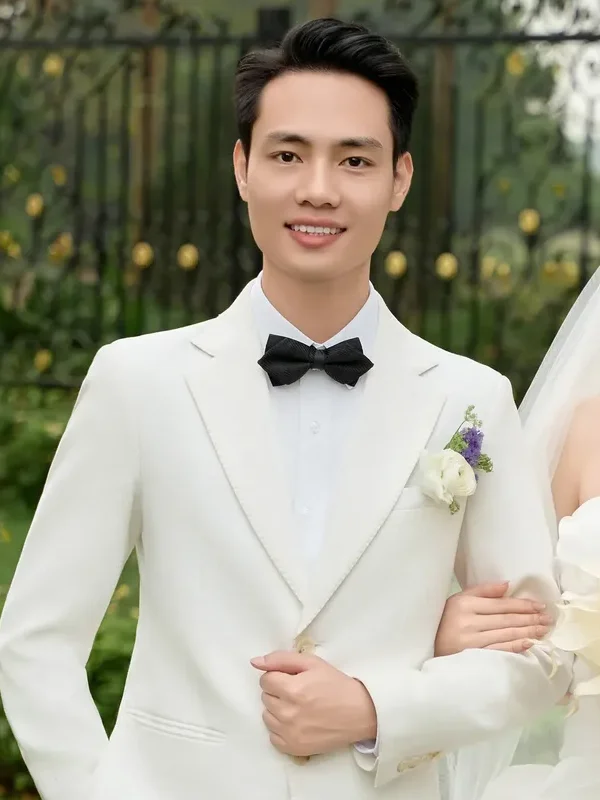
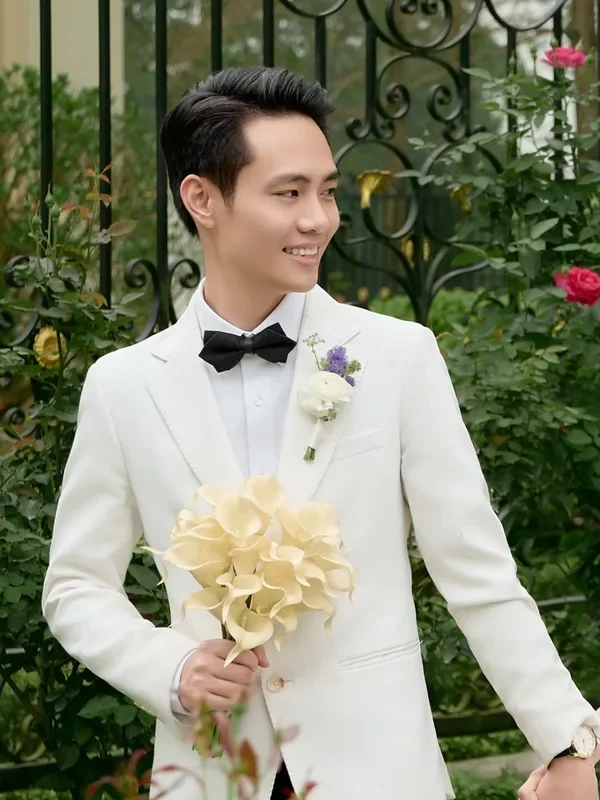
Default to Gen Z, hide theme switch, new cover and portraits
- Default theme is Gen Z; theme still selectable via ?giaodien=geny|genz
- Hide Gen Y/Gen Z switch buttons
- New cover (cropped so faces sit higher, framing shifted to center the couple)
- New groom/bride portraits
- Bride-side Google Maps link updated to pinned coordinates
- Gen Z lock screen: home indicator at the bottom edge

diff --git a/js/config.js b/js/config.js
@@ -17,7 +17,7 @@ window.WEDDING = {
     father: "Nguyễn Văn Dũng",
     mother: "Trịnh Thị Thủy",
     address: "Số nhà 9 ngõ 255 đường Vĩnh Khang, Đội 4, Ngọc Hồi, Hà Nội",
-    map: "https://maps.app.goo.gl/emVz5PXuHxVHvVgp6", // vị trí chấm tay trên Google Maps (địa chỉ chưa tìm được)
+    map: "https://www.google.com/maps/search/?api=1&query=20.92542266845703,105.83877563476562", // vị trí chấm tay trên Google Maps (địa chỉ chưa tìm được)
   },
 
   // Thời điểm hôn lễ mặc định (đếm ngược, ngày trên bìa). Định dạng: YYYY-MM-DDTHH:mm (giờ Việt Nam)
@@ -62,7 +62,7 @@ window.WEDDING = {
       lunar: "Tức ngày 7 tháng 10 năm Bính Ngọ",
       place: "Tư gia nhà gái",
       address: "Số nhà 9 ngõ 255 đường Vĩnh Khang, Đội 4, Ngọc Hồi, Hà Nội",
-      map: "https://maps.app.goo.gl/emVz5PXuHxVHvVgp6",
+      map: "https://www.google.com/maps/search/?api=1&query=20.92542266845703,105.83877563476562",
     },
     {
       side: "gai",
@@ -72,7 +72,7 @@ window.WEDDING = {
       lunar: "Nhằm ngày 8 tháng 10 năm Bính Ngọ",
       place: "Tư gia nhà gái",
       address: "Số nhà 9 ngõ 255 đường Vĩnh Khang, Đội 4, Ngọc Hồi, Hà Nội",
-      map: "https://maps.app.goo.gl/emVz5PXuHxVHvVgp6",
+      map: "https://www.google.com/maps/search/?api=1&query=20.92542266845703,105.83877563476562",
     },
   ],
 
@@ -143,7 +143,7 @@ window.WEDDING = {
 
   // Phong cách mặc định: "classic" (Gen Y — đám cưới Việt thập niên 80–90) hoặc "modern" (Gen Z — tối giản fine-art).
   // Khách vẫn đổi được bằng nút "Gen Y | Gen Z"; có thể gửi link kèm &giaodien=geny hoặc &giaodien=genz.
-  theme: "classic",
+  theme: "modern",
 
   // Số ảnh hiển thị ban đầu trong album (bấm "Xem thêm" để hiện tiếp)
   galleryPageSize: 12,

diff --git a/index.html b/index.html
@@ -35,7 +35,7 @@
   <link rel="stylesheet" href="css/style.css">
   <script>
     document.documentElement.classList.add("js", "is-locked"); // khoá cuộn tới khi mở thiệp
-    // Phong cách: mặc định theo config (Gen Y); link có ?giaodien=genz | geny thì chọn sẵn
+    // Phong cách: mặc định theo config (Gen Z); link có ?giaodien=genz | geny thì chọn sẵn
     (function () {
       var t = "";
       try {
@@ -43,7 +43,7 @@
         if (q) t = /z|hien|modern|thanh/i.test(q) ? "modern" : "classic";
       } catch (e) {}
       // gán ngay từ đầu để trình duyệt chỉ tải font của phong cách đang xem (JS sẽ chỉnh lại theo config nếu cần)
-      document.documentElement.dataset.theme = t || "classic";
+      document.documentElement.dataset.theme = t || "modern";
       if (t) document.documentElement.dataset.themeFromUrl = "1";
     })();
   </script>

diff --git a/css/style.css b/css/style.css
@@ -1749,3 +1749,15 @@ main > section:not(.hero) .head { margin-bottom: 36px; }
 
 /* màn mở thiệp tràn 1px mỗi bên để phủ kín mép cột (tránh vạch sáng do lệch nửa pixel) */
 .leader { left: calc(var(--side) - 1px) !important; right: calc(var(--side) - 1px) !important; }
+
+/* ẩn nút chọn Gen Y / Gen Z — phong cách chỉ đổi qua link (&giaodien=geny|genz) hoặc theme trong config */
+.leader-theme, .topbar .theme-switch { display: none !important; }
+
+/* ảnh cover: dời khung sang trái một chút để cặp đôi nằm giữa màn hình */
+.hero-photo img { object-position: 40% center; }
+
+/* màn khoá Gen Z: thanh home nằm sát đáy màn hình như iPhone thật, không dính dưới dòng gợi ý */
+.ls-hint::after {
+  position: absolute; left: 50%; bottom: calc(8px + env(safe-area-inset-bottom));
+  margin: 0; transform: translateX(-50%);
+}
